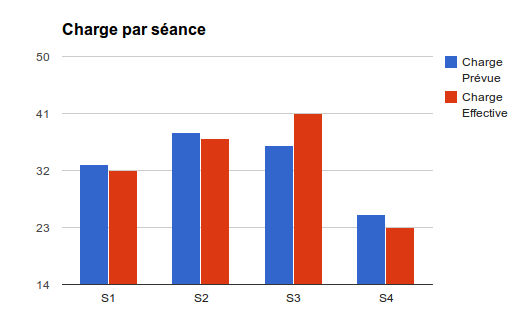
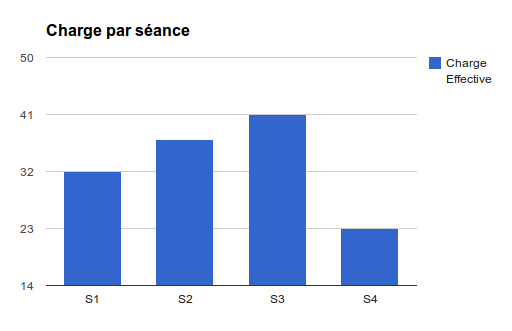
blabla

diff --git a/presentation/main.tex b/presentation/main.tex
@@ -7,9 +7,9 @@
 %
 \mode<presentation>
 %{https://writelatex.s3.amazonaws.com/vpzdvfpgmtcs/page/20577db5fb5206cebb645db53626924bd7e5686f.jpeg}
-  \usetheme{Frankfurt}      % or try Darmstadt, Madrid, Warsaw, ...
+  \usetheme{Frankfurt} % or try Darmstadt, Madrid, Warsaw, ...
   \usecolortheme{beaver} % or try albatross, beaver, crane, ...
-  \usefonttheme{default}  % or try serif, structurebold, ...
+  \usefonttheme{default} % or try serif, structurebold, ...
   \setbeamertemplate{navigation symbols}{}
   \setbeamertemplate{caption}[numbered]{}
 \setbeamertemplate{footline}[frame number]
@@ -33,7 +33,7 @@
 
 % Plan proposé :
 %
-% 1. 
+% 1.
 
 
 \section{Structures de données}
@@ -86,46 +86,61 @@
 \end{center}
 \end{frame}
 
+\subsection{Diagramme de classes}
+\begin{frame}{Diagramme de classes}
+\begin{center}
+ \includegraphics[scale=0.17]{diagdcla}
+\end{center}
+\end{frame}
 
-\section{Algorithme de  validation}
-\subsection{Algorithme de  validation}
+\section{Algorithme de validation}
+\subsection{Algorithme de validation}
 \begin{frame}[fragile]{Algorithme de validation}
-	\textbf{Objectif :}
-	Cet algorithme permet de valider un document XML par rapport à un schéma XSD. \\
-	\textbf{Principe :} algorithme en trois étapes :
-	\begin{itemize}
-		\item création d'un dictionnaire noeud/regex
-		\item passage dans le dictionnaire pour traduire les références
-		\item comparaison des regex avec la structure du document XML
-	\end{itemize}
+\textbf{Objectif :}
+Cet algorithme permet de valider un document XML par rapport à un schéma XSD. \\
+\textbf{Principe :} algorithme en trois étapes :
+\begin{itemize}
+\item création d'un dictionnaire noeud/regex
+\item passage dans le dictionnaire pour traduire les références
+\item comparaison des regex avec la structure du document XML
+\end{itemize}
 \end{frame}
 
 \section{Algorithme de transformation}
 
 \subsection{Algorithme de transformation}
-\begin{frame}[fragile]{Algorithme de transformation - Fonctions Utiles }
-	\textbf{Objectif :}
-	Cet algorithme permet de transformer un document XML par rapport à une feuille de style XSL. \\
-	\textbf{Principe :} 
-	\begin{itemize}
-		\item passage récursif dans chaque noeud du document XSL
-		\item traitement en fonction du type de noeud
-		\item sortie du résultat
+\begin{frame}[fragile]{Algorithme de transformation}
+\textbf{Objectif :}
+Cet algorithme permet de transformer un document XML par rapport à une feuille de style XSL. \\
+\textbf{Principe :}
+\begin{itemize}
+\item passage récursif dans chaque noeud du document XSL
+\item traitement en fonction du type de noeud
+\item sortie du résultat
+\end{itemize}
+\end{frame}
+
+\begin{frame}[fragile]{Algorithme de transformation}
+\textbf{Fonction :}
+Selon le type du noeud, l'algorithme sera différent. \\
+\textbf{Algorithme pour un élément noeud  :}\\
+String Transformation(noeudXMLassocié, sortie)\\
+  1) si noeudCourant est value-of\\
+  2) si noeudCourant est fore-each\\
+  3) si noeudCourant est apply-template avec attributs\\
+  4) si noeudCourant est apply-template sans attributs\\
+  5) si noeudCourant est template\\
+  6) sinon\\
+retourner sortie
 \end{frame}
 
 \section{Bilan du projet}
-\subsection{Bilan quatitatif}
-\begin{frame}{Bilan quantitatif}
-\begin{center}
- \includegraphics[scale=0.5]{chargetot}
-\end{center}
-\end{frame}
 
 \subsection{Bilan quatitatif}
 \begin{frame}{Bilan quantitatif}
 \begin{center}
  \includegraphics[scale=0.5]{chargeseance}
-\end{center} 
+\end{center}
 \end{frame}
 
 \subsection{Bilan quatitatif}
@@ -139,10 +154,10 @@
 \begin{frame}{Bilan qualitatif}
 Montées en compétence :
 \begin{itemize}
- \item Modélisation pas évidente
- \item Développer la syntaxe
- \item Retoucher au C++
- \item Implémentation difficile
+ \item Modélisation non triviale
+ \item Découverte de la syntax \textit{Bison}
+ \item (Re)découverte du C++
+ \item Implémentation peu aisée
  \item Analyse des langages XML, XSD, XSL
 \end{itemize}
 \end{frame}
@@ -151,7 +166,7 @@ Montées en compétence :
 \begin{frame}{Bilan qualitatif}
 Ressenti vis à vis du projet :
  \begin{itemize}
-  \item Framework de test génial, très agréable
+  \item Framework de test génial, très agréable !
   \item Aucun souci avec ce qui nous a été donné
   \item Un projet bien dimensionné
   \item Un projet intéressant
